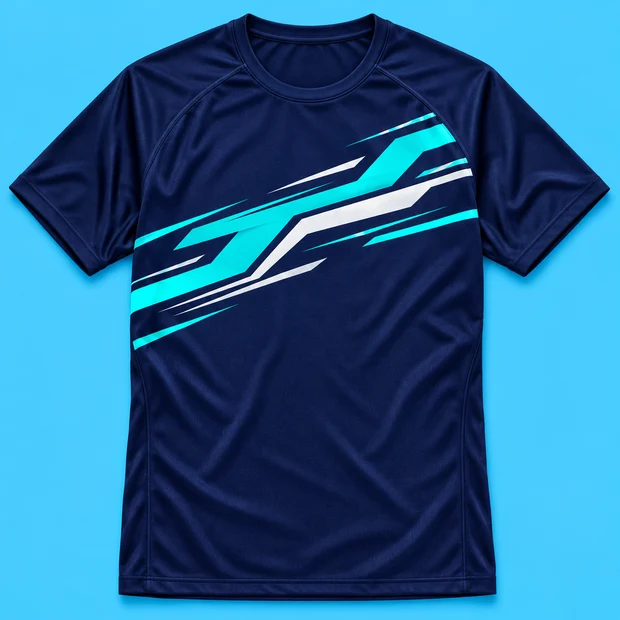
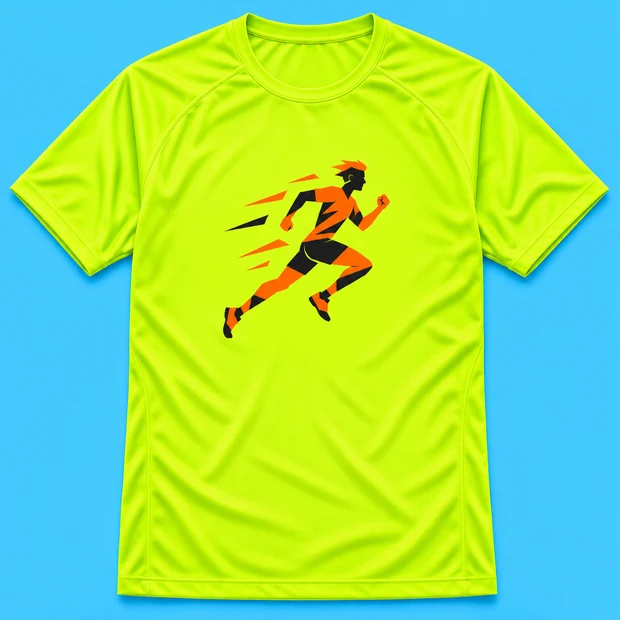
Actualiza la imagen de portada de la playera deportiva

diff --git a/index.html b/index.html
@@ -48,7 +48,7 @@
 <div class="grid">
 <article><img src="assets/playeras.webp" alt="Ejemplo de playera negra estampada" loading="lazy"><a href="mockup.html?producto=playeras">Playeras <span>↗</span></a></article>
 <article><img src="assets/sudaderas.webp" alt="Ejemplo de sudadera amarilla estampada" loading="lazy"><a href="mockup.html?producto=sudaderas">Sudaderas con capucha <span>↗</span></a></article>
-<article><img src="assets/playeras-deportivas.webp" alt="Playera deportiva Dry Fit con un estampado de muestra" loading="lazy"><a href="mockup.html?producto=playeras-deportivas">Playera deportiva Dry Fit <span>↗</span></a></article>
+<article><img src="assets/playeras-deportivas.webp?v=2" alt="Playera deportiva Dry Fit amarillo flúor con un corredor abstracto en naranja y negro al centro" loading="lazy"><a href="mockup.html?producto=playeras-deportivas">Playera deportiva Dry Fit <span>↗</span></a></article>
 <article><img src="assets/termos.webp" alt="Ejemplo de termo negro personalizado" loading="lazy"><a href="mockup.html?producto=termos">Termos <span>↗</span></a></article>
 <article><img src="assets/playeras-polo.webp" alt="Ejemplo de polo Dry Fit azul marino personalizada" loading="lazy"><a href="mockup.html?producto=playeras-polo">Polo Dry Fit <span>↗</span></a></article>
 <article><img src="assets/gorras-dkps.webp" alt="Gorra de red DKPS azul y blanca con un estampado de muestra" loading="lazy"><a href="mockup.html?producto=gorras">Gorras de red DKPS <span>↗</span></a></article>
